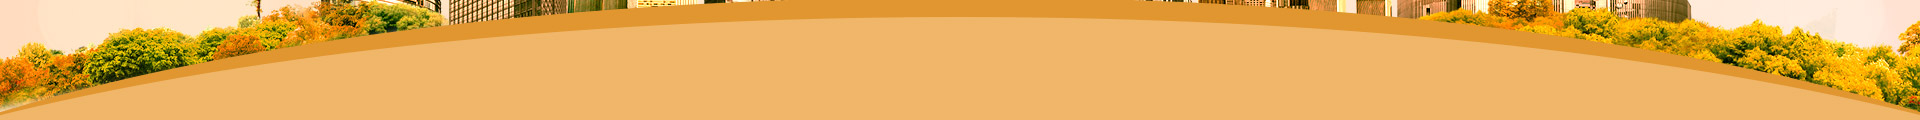
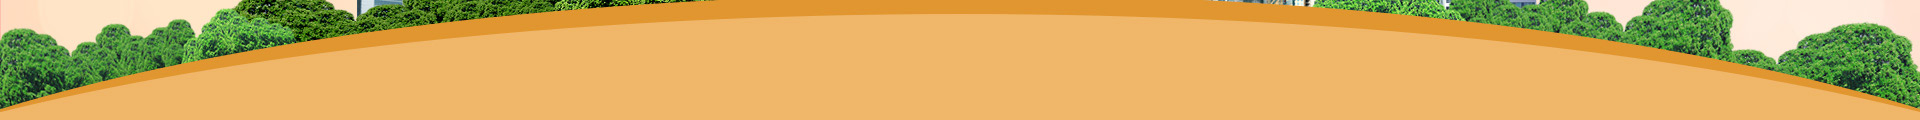
修改banner图

Changed region(s): [[0.0, 0.0, 1.0, 0.95]]

diff --git a/apps/web/topic-zun-xiang/less/index.less b/apps/web/topic-zun-xiang/less/index.less
@@ -59,7 +59,7 @@ img {
 
 .top1 {
   height: 331px;
-  background: #2a6aaa url(../images/banner.png) no-repeat 50% 0;
+  background: #2a6aaa url(../images/banner.jpg) no-repeat 50% 0;
   position: relative;
   z-index: 100;
   .now_invest{
